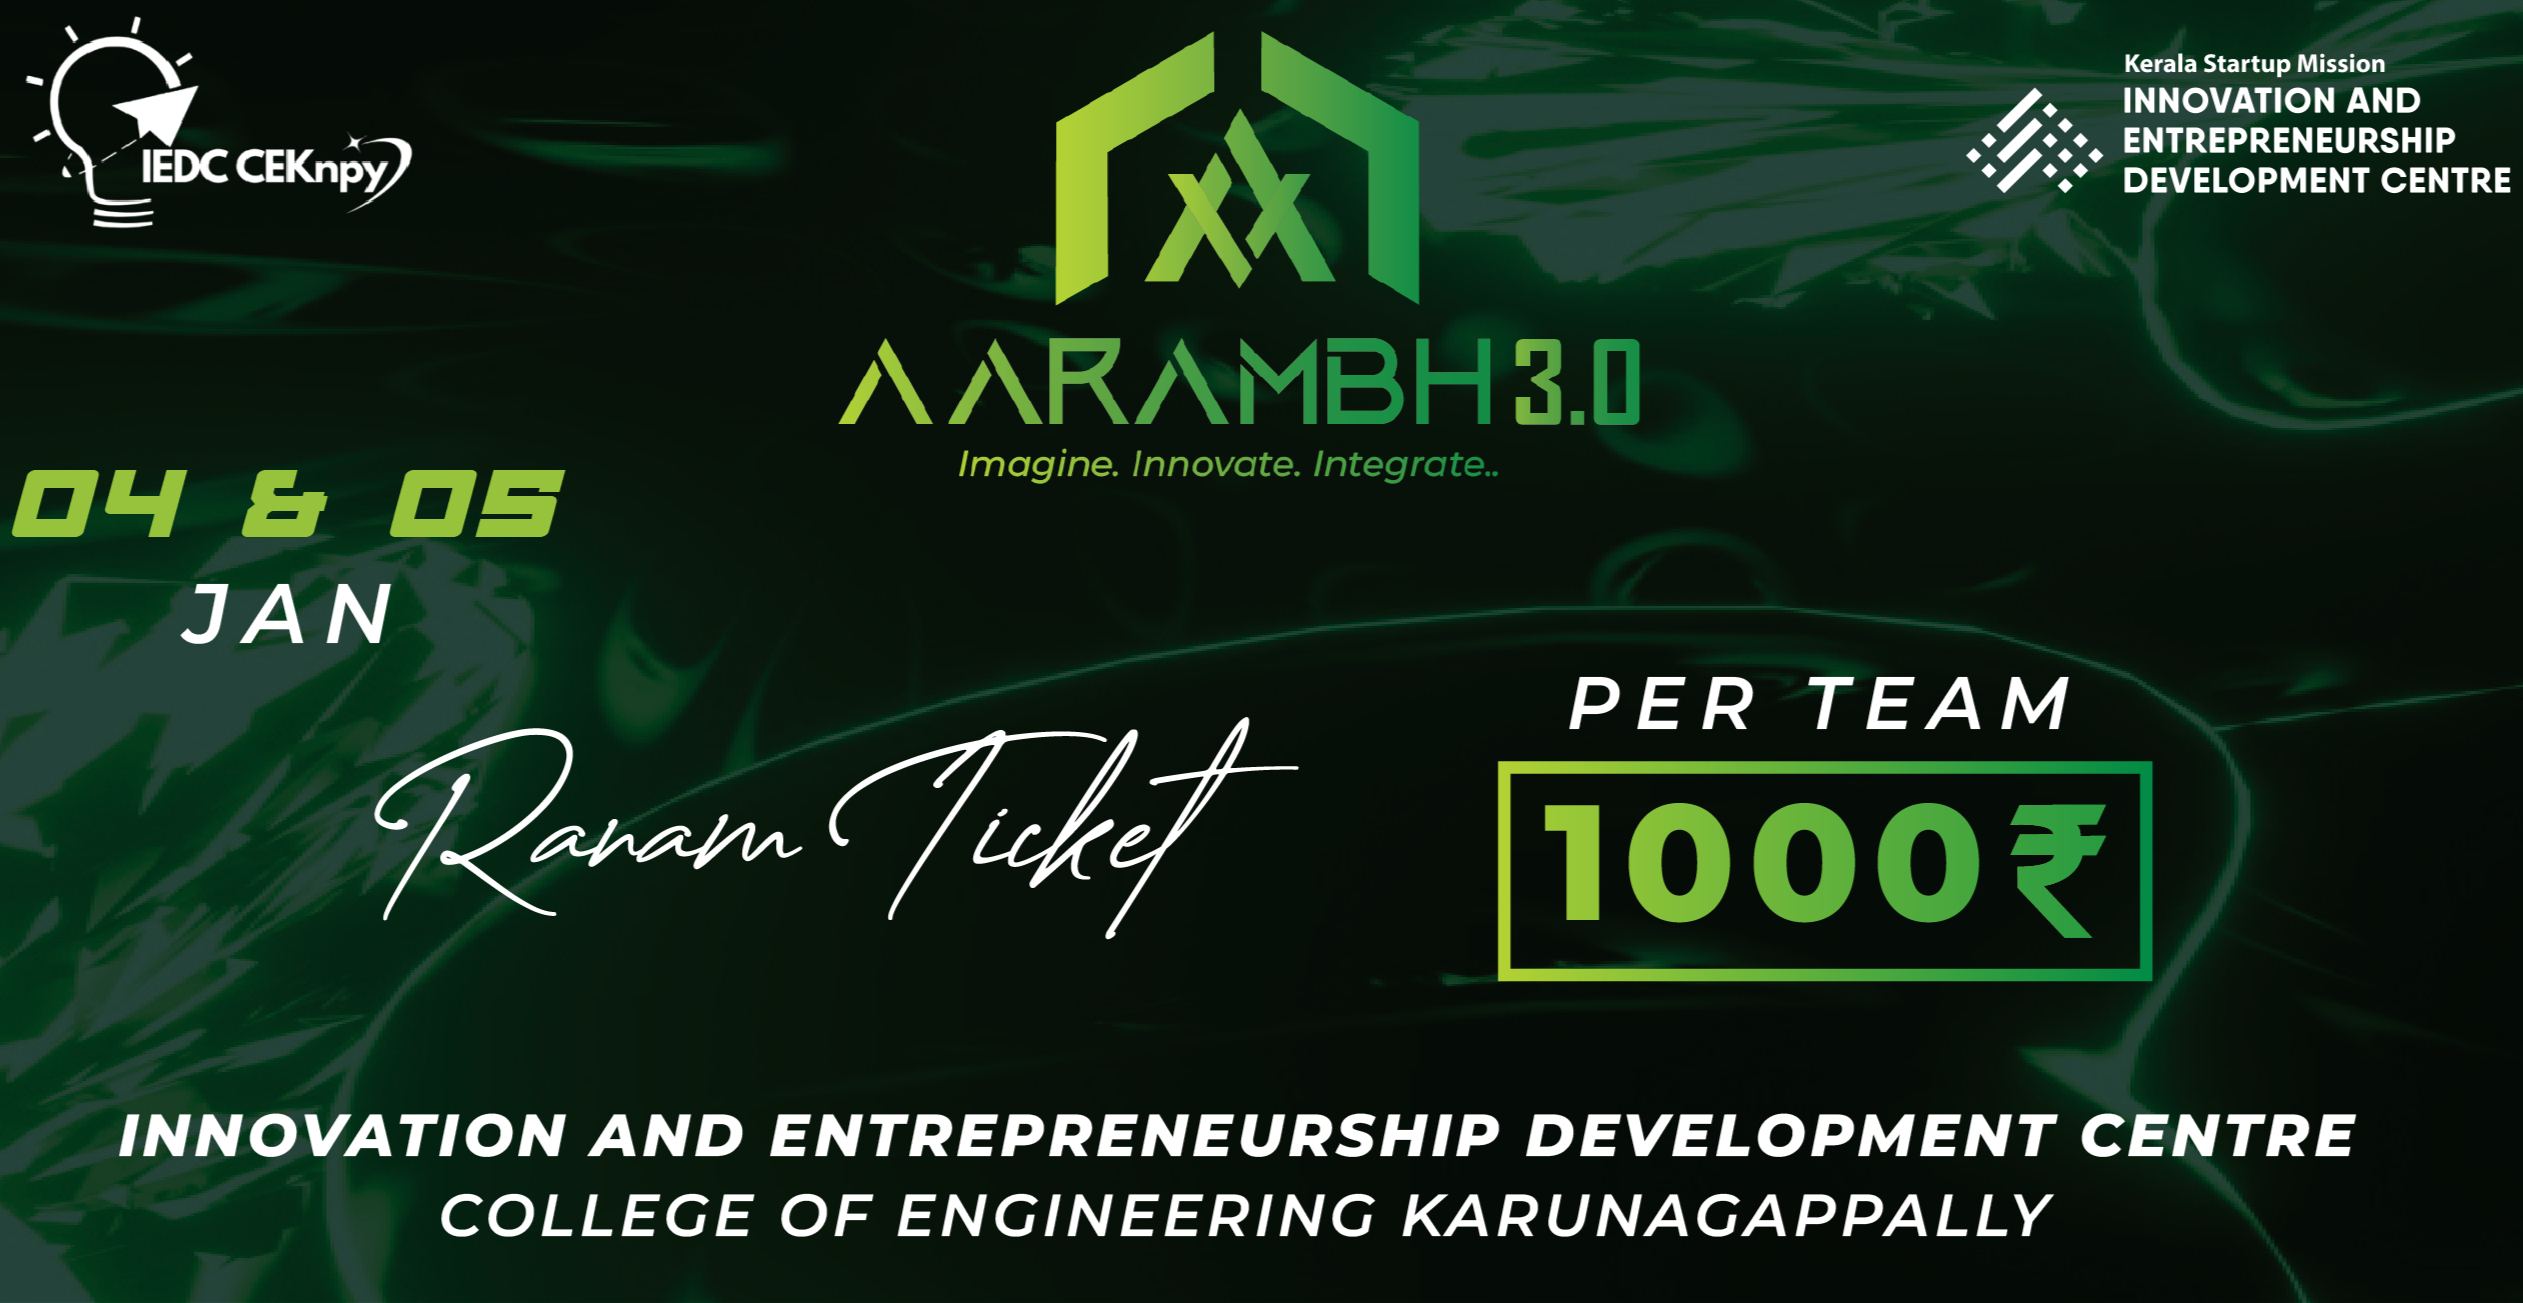
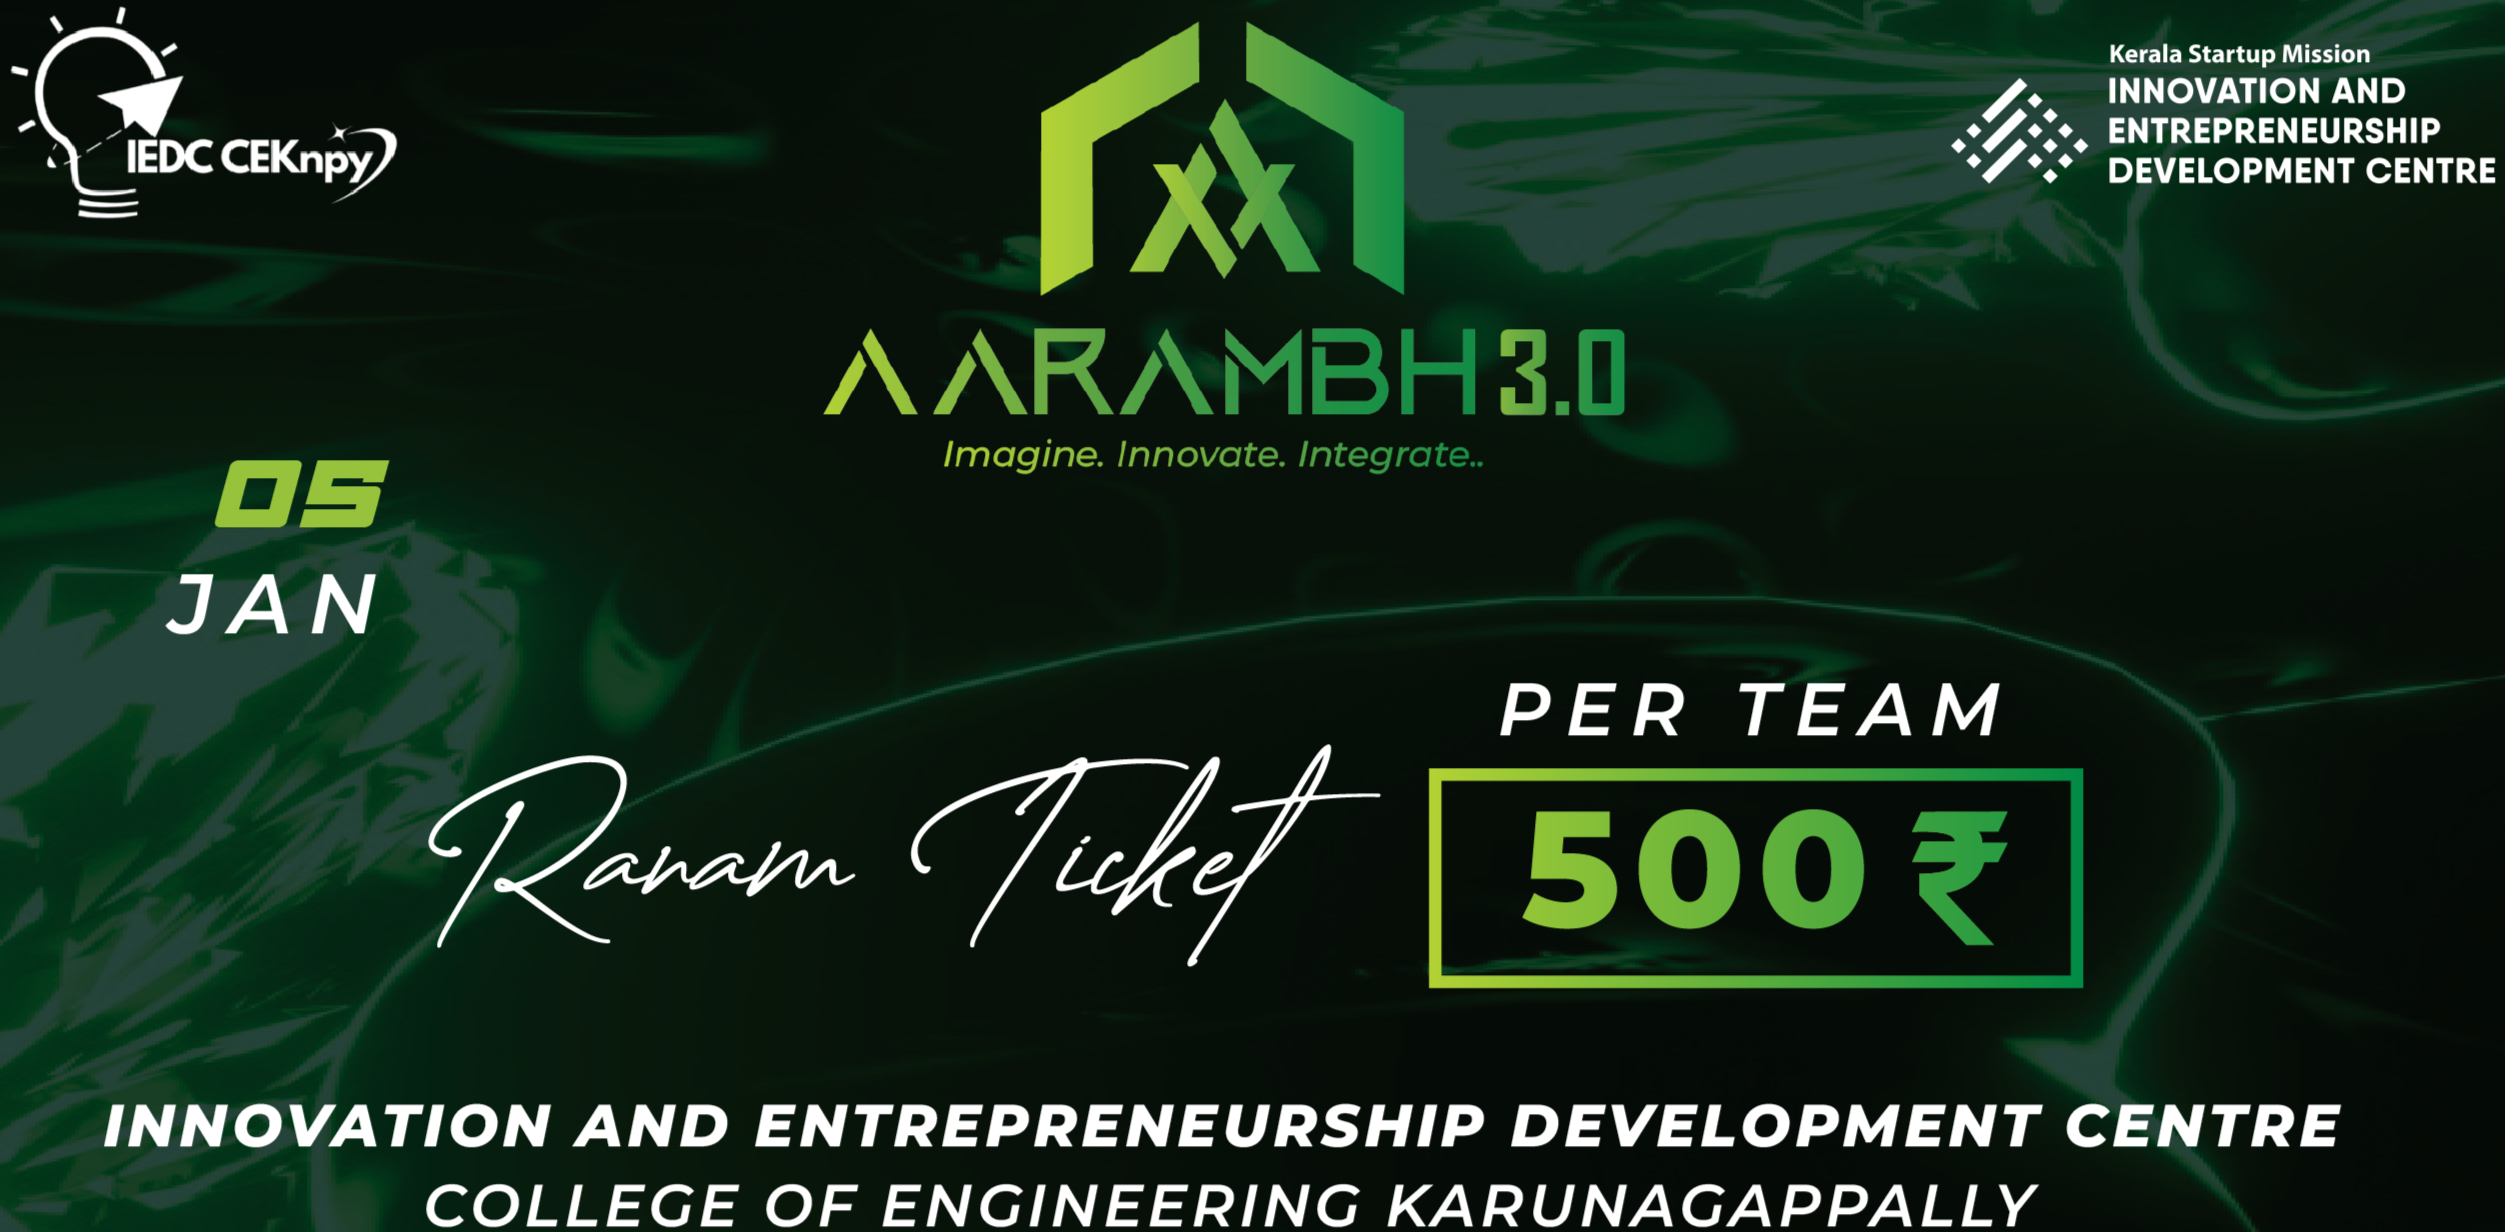
Updt: added line follower and changed ranam ticket, added workshop links

diff --git a/src/components/Events.tsx b/src/components/Events.tsx
@@ -48,6 +48,46 @@ const Events = memo(() => {
       fee: 600,
     },
     {
+      id: 11,
+      title: 'Daurapatham - Line Follower Challenge',
+      type: 'Competition',
+      description: 'Build and race autonomous line-following robots in this exciting challenge',
+      illustration: RobotIllustration,
+      date: 'January 5',
+      duration: '3 hours',
+      fee: 0,
+    },
+    {
+      id: 10,
+      title: 'UI/UX Workshop',
+      type: 'Workshop',
+      description: 'Learn design principles, user experience, and create stunning interfaces',
+      illustration: DesignIllustration,
+      date: 'January 5',
+      duration: '2 hours',
+      fee: 0,
+    },
+    {
+      id: 8,
+      title: 'Web3 Workshop',
+      type: 'Workshop',
+      description: 'Explore blockchain, NFTs, and decentralized applications (Details coming soon)',
+      illustration: Web3Illustration,
+      date: 'January 4',
+      duration: '3 hours',
+      fee: 0,
+    },
+    {
+      id: 7,
+      title: 'Hardware Workshop',
+      type: 'Workshop',
+      description: 'Hands-on session with cutting-edge hardware technologies (Details coming soon)',
+      illustration: HardwareIllustration,
+      date: 'January 5',
+      duration: '3 hours',
+      fee: 0,
+    },
+    {
       id: 4,
       title: 'Thillana - Music Show',
       type: 'Entertainment',
@@ -78,26 +118,6 @@ const Events = memo(() => {
       fee: 0,
     },
     {
-      id: 7,
-      title: 'Hardware Workshop',
-      type: 'Workshop',
-      description: 'Hands-on session with cutting-edge hardware technologies (Details coming soon)',
-      illustration: HardwareIllustration,
-      date: 'January 5',
-      duration: '3 hours',
-      fee: 0,
-    },
-    {
-      id: 8,
-      title: 'Web3 Workshop',
-      type: 'Workshop',
-      description: 'Explore blockchain, NFTs, and decentralized applications (Details coming soon)',
-      illustration: Web3Illustration,
-      date: 'January 4',
-      duration: '3 hours',
-      fee: 0,
-    },
-    {
       id: 9,
       title: 'Entrepreneur Talk Session',
       type: 'Talk Session',
@@ -105,16 +125,6 @@ const Events = memo(() => {
       illustration: MentalistIllustration,
       date: 'January 4',
       duration: '1.5 hours',
-      fee: 0,
-    },
-    {
-      id: 10,
-      title: 'UI/UX Workshop',
-      type: 'Workshop',
-      description: 'Learn design principles, user experience, and create stunning interfaces',
-      illustration: DesignIllustration,
-      date: 'January 5',
-      duration: '2 hours',
       fee: 0,
     },
   ];
@@ -142,7 +152,7 @@ const Events = memo(() => {
               
               <div className='p-6 lg:p-8 text-center bg-gradient-to-b from-[var(--bg-card)] to-[var(--bg-secondary)]'>
                 <h3 className='text-2xl lg:text-3xl font-bold text-[var(--text-heading)] mb-3 group-hover:text-appleGreen-400 dark:group-hover:text-appleGreen-300 transition-colors duration-300'>
-                  General Entry Pass
+                  Early Bird - General Entry Ticket
                 </h3>
                 <p className='text-[var(--text-secondary)] mb-6 text-base lg:text-lg leading-relaxed max-w-2xl mx-auto'>
                   Get access to all entertainment shows, exhibitions, and workshops at AARAMBH 3.0
@@ -219,6 +229,12 @@ const Events = memo(() => {
                       alt="Ranam Robo War Ticket"
                       className='h-full w-full object-cover transition-transform duration-500 group-hover:scale-110'
                     />
+                  ) : event.id === 11 ? (
+                    <img 
+                      src="/assets/daurapatham-ticket.png" 
+                      alt="Daurapatham Line Follower Challenge Ticket"
+                      className='h-full w-full object-cover transition-transform duration-500 group-hover:scale-110'
+                    />
                   ) : (
                     <IllustrationComponent 
                       className='h-40 w-auto text-[var(--ill-primary)] transition-transform duration-500 group-hover:scale-110' 
@@ -284,6 +300,42 @@ const Events = memo(() => {
                 ) : event.id === 3 ? (
                   <a 
                     href="https://konfhub.com/widget/aarambh26?desc=true&secondaryBg=F7F7F7&ticketBg=F7F7F7&borderCl=F7F7F7&bg=FFFFFF&fontColor=1e1f24&ticketCl=1e1f24&btnColor=002E6E&fontFamily=Hind&borderRadius=10&widget_type=standard&tickets=67304%2C67305&ticketId=67304%7C%3B67305%7C"
+                    target="_blank"
+                    rel="noopener noreferrer"
+                    className='w-full btn-primary inline-block text-center'
+                  >
+                    Register Now
+                  </a>
+                ) : event.id === 7 ? (
+                  <a 
+                    href="https://bit.ly/4pH6DGL"
+                    target="_blank"
+                    rel="noopener noreferrer"
+                    className='w-full btn-primary inline-block text-center'
+                  >
+                    Register Now
+                  </a>
+                ) : event.id === 8 ? (
+                  <a 
+                    href="https://forms.gle/et1zNm1d4g7FVrR29"
+                    target="_blank"
+                    rel="noopener noreferrer"
+                    className='w-full btn-primary inline-block text-center'
+                  >
+                    Register Now
+                  </a>
+                ) : event.id === 10 ? (
+                  <a 
+                    href="https://forms.gle/JXVzCxuNY78VpLgp7"
+                    target="_blank"
+                    rel="noopener noreferrer"
+                    className='w-full btn-primary inline-block text-center'
+                  >
+                    Register Now
+                  </a>
+                ) : event.id === 11 ? (
+                  <a 
+                    href="https://konfhub.com/widget/aarambh26?desc=true&secondaryBg=F7F7F7&ticketBg=F7F7F7&borderCl=F7F7F7&bg=FFFFFF&fontColor=1e1f24&ticketCl=1e1f24&btnColor=002E6E&fontFamily=Hind&borderRadius=10&widget_type=standard&tickets=68474%2C68475&ticketId=68474%7C%3B68475%7C"
                     target="_blank"
                     rel="noopener noreferrer"
                     className='w-full btn-primary inline-block text-center'
